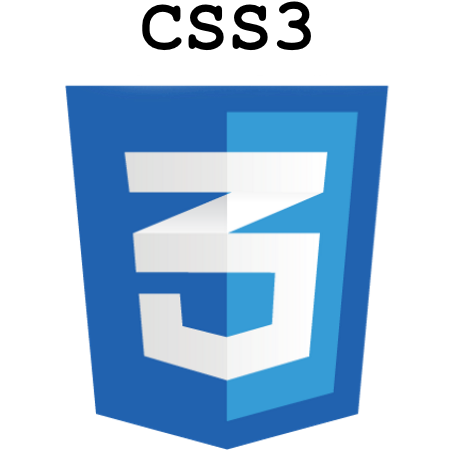
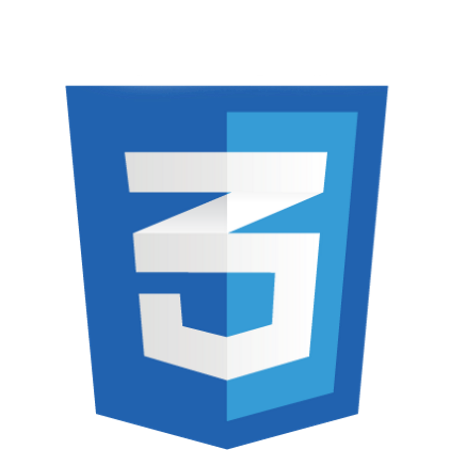
edited skill imgs, editing skill section

Changed region(s): [[0.3111, 0.0, 0.6222, 0.1244], [0.6222, 0.0, 0.7156, 0.1244]]

diff --git a/index.html b/index.html
@@ -50,7 +50,8 @@
     <div class="section_div">
         <!-- <img class="profile_pic" src="pix/sara_img.jpg"> -->
         <p class="welcome">
-            Welcome! Take a look around, you might see something you like. :)
+            Welcome! Take a look around, you might see something you like.
+            </p>
     </div>
     <div id="about_me" class="section_div">
         <div class="title_box">
@@ -103,37 +104,30 @@
             <div class="img_box top_row">
                 <img class='skill_img' src="pix/html_icon.png">
             </div>
-            <div class="img_box offset_box top_row">
-            </div>
+            
             <div class="img_box top_row">
                 <img class='skill_img' src="pix/javascript_icon.png">
             </div>
-            <div class="img_box offset_box top_row">
-            </div>
+            
             <div class="img_box top_row">
                 <img class='skill_img' src="pix/angular-js.png">
             </div>
-            <div class="img_box offset_box top_row">
-            </div>
+            
             <div class="img_box top_row">
                 <img class='skill_img' src="pix/php_logo.png">
             </div>
-            <div class="img_box offset_box">
-            </div>
+            
             <div class="img_box">
                 <img class='skill_img' src="pix/css3_icon.png">
             </div>
-            <div class="img_box offset_box">
-            </div>
+            
             <div class="img_box">
                 <img class='skill_img' src="pix/bootstrap_icon.png">
             </div>
-            <div class="img_box offset_box">
-            </div>
+            
             <div class="img_box">
                 <img class='skill_img' src="pix/github_logo.png">
-            </div>
-            <div class="img_box offset_box">
+            
             </div>
         </div>
     </div>

diff --git a/style.css b/style.css
@@ -71,11 +71,11 @@ a:visited, #header {
 }
 
 #name {
-    font-size: 2vw;
+    font-size: 2.3vw;
     position: relative;
     display: inline-block;
     left: 5%;
-    top: 10%;
+    top: 15%;
 }
 
 /*The following is the main content styling*/
@@ -98,7 +98,7 @@ a:visited, #header {
 
 .welcome {
     font-family: Oswald, sans-serif;
-    font-size: 3.2vw;
+    font-size: 3.5vw;
     position: absolute;
     top: 0;
     color: #bdbdbd;
@@ -107,10 +107,7 @@ a:visited, #header {
     margin: 0;
     text-transform: uppercase;
 }
-span {
-    font-size:3.2vw;
 
-}
 .intro {
     font-family: Oswald, sans-serif;
     position: absolute;
@@ -158,10 +155,11 @@ text-align: center;
 }
 
 .title_box .title {
-    color: black;
+    color: #818181;
     margin:0;
-    font-size: 5vw;
+    font-size: 4vw;
     font-family: Oswald, sans-serif;
+    padding: 1.1vw;
 }
 
 .info_box {
